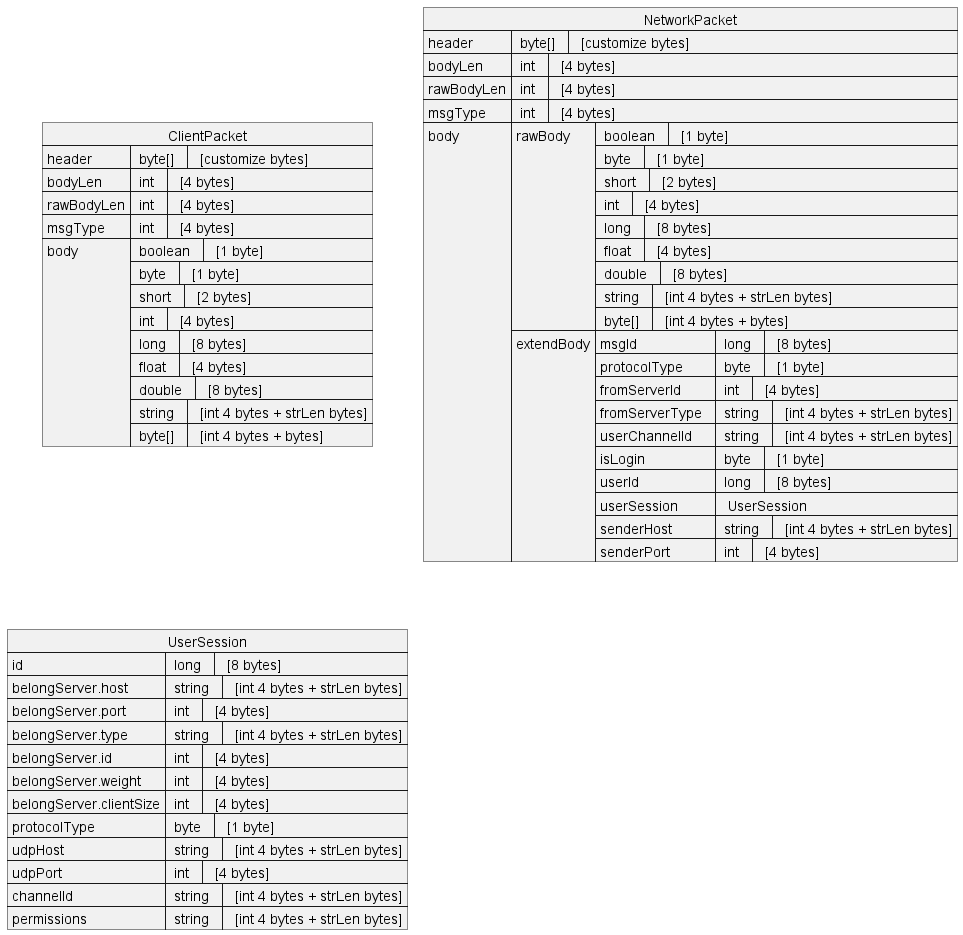
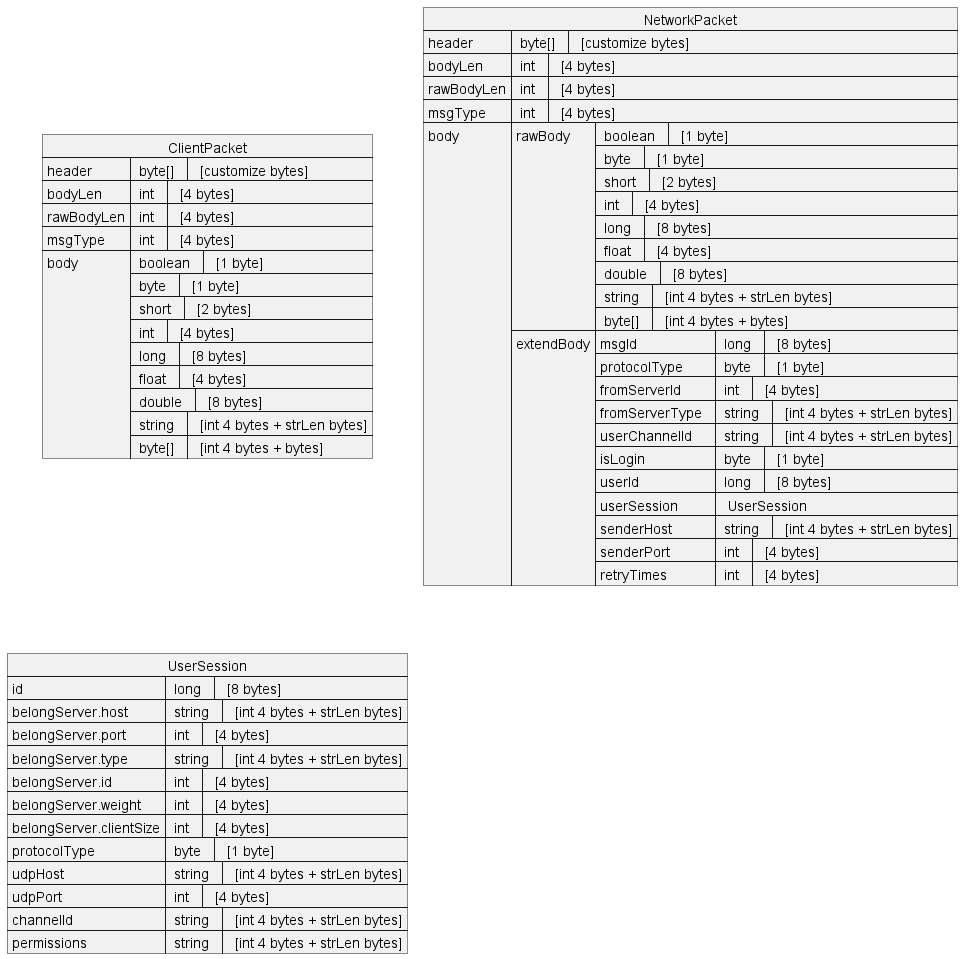
feat(server-framework): add retry mechanism for failed message dispatching
Introduce a retry mechanism in the server message dispatching logic to handle
failed message deliveries. This feature allows for retrying message dispatch up
to a configured number of times before considering it a failure.

The retry logic is implemented in the `JoinChatRoomAction` and utilizes the
`ExtendBody` entity to store and manage the retry counts. Additionally, the`NetworkPacket` and `Decoder` classes have been updated to support the removal
and replacement of the extend body, facilitating the retry process.

BREAKING CHANGE: The addition of the retry mechanism alters the message handling
流程, which may affect downstream systems that depend on the previous behavior.
Clients will need to be updated to handle the potential retries and the associated
changes in the message structure.

Changed region(s): [[0.4361, 0.0, 0.9969, 0.6203], [0.0, 0.6513, 0.4361, 0.9925], [0.0312, 0.1241, 0.3738, 0.4963]]

diff --git a/server-framework/src/main/java/com/hbsoo/server/message/entity/ExtendBody.java b/server-framework/src/main/java/com/hbsoo/server/message/entity/ExtendBody.java
@@ -20,6 +20,8 @@ public final class ExtendBody implements NetworkPacketEntity<ExtendBody> {
     //UDP
     private String senderHost;
     private int senderPort;
+    //重试次数
+    private int retryTimes;
 
     @Override
     public void serializable(NetworkPacket.Builder builder) {
@@ -40,6 +42,7 @@ public final class ExtendBody implements NetworkPacketEntity<ExtendBody> {
             builder.writeStr(this.senderHost)
                     .writeInt(this.senderPort);
         }
+        builder.writeInt(this.retryTimes);
         if (writeRawBody) {
             builder.writeRawBodyMode();
         }
@@ -71,6 +74,7 @@ public final class ExtendBody implements NetworkPacketEntity<ExtendBody> {
             this.senderHost = decoder.readStr();
             this.senderPort = decoder.readInt();
         }
+        this.retryTimes = decoder.readInt();
         if (isReadRawBody) {
             decoder.readRawBodyMode();
         }
@@ -161,6 +165,14 @@ public final class ExtendBody implements NetworkPacketEntity<ExtendBody> {
         this.senderPort = senderPort;
     }
 
+    public int getRetryTimes() {
+        return retryTimes;
+    }
+
+    public void setRetryTimes(int retryTimes) {
+        this.retryTimes = retryTimes;
+    }
+
     @Override
     public String toString() {
         return "ExtendBody{" +
@@ -174,6 +186,7 @@ public final class ExtendBody implements NetworkPacketEntity<ExtendBody> {
                 ", userSession=" + userSession +
                 ", senderHost='" + senderHost + '\'' +
                 ", senderPort=" + senderPort +
+                ", retryTimes=" + retryTimes +
                 '}';
     }
 }

diff --git a/server-framework/src/main/java/com/hbsoo/server/session/InsideClientSessionManager.java b/server-framework/src/main/java/com/hbsoo/server/session/InsideClientSessionManager.java
@@ -265,11 +265,11 @@ public final class InsideClientSessionManager {
     /**
      * 请求服务器，并等待服务器响应返回值；
      * @param msgBuilder 消息内容
-     * @param waitSeconds 等待相应结果时间秒数
+     * @param timeoutSeconds 等待相应结果时间秒数
      * @param forwardMsg2ServerFunction 消息发送函数
      * @return 服务器响应的内容或者null(等待返回值超时)
      */
-    public static NetworkPacket.Decoder requestServer(NetworkPacket.Builder msgBuilder, int waitSeconds, Consumer<NetworkPacket.Builder> forwardMsg2ServerFunction)
+    public static NetworkPacket.Decoder requestServer(NetworkPacket.Builder msgBuilder, int timeoutSeconds, Consumer<NetworkPacket.Builder> forwardMsg2ServerFunction)
             throws InterruptedException {
         NetworkPacket.Decoder decoder = msgBuilder.toDecoder();
         if (!decoder.hasExtendBody()) {
@@ -282,7 +282,7 @@ public final class InsideClientSessionManager {
             forwardMsg2ServerFunction.accept(msgBuilder);
             CountDownLatch latch = syncMessage.getCountDownLatch();
             //阻塞等待结果
-            boolean await = latch.await(waitSeconds, TimeUnit.SECONDS);
+            boolean await = latch.await(timeoutSeconds, TimeUnit.SECONDS);
             if (await) {
                 return syncMessage.getDecoder();
             }

diff --git a/room-server/src/main/java/com/hbsoo/room/action/inside/JoinChatRoomAction.java b/room-server/src/main/java/com/hbsoo/room/action/inside/JoinChatRoomAction.java
@@ -37,16 +37,15 @@ public class JoinChatRoomAction extends ServerMessageDispatcher {
         String username = decoder.readStr();
         final String channelId = extendBody.getUserChannelId();
         long userId = decoder.readInt();
-        //1.执行登录流程，同步到到网关服。
-        //2.判断聊天房间是否存在
-        //3.存在则进入，不存在则创建；进入聊天房间
-        //4.发送聊天小则走房间服务。
         logger.info("JoinChatRoomAction username:{}，channelId:{}，userId:{}", username, channelId, userId);
         UserSession userSession = outsideUserSessionManager.getUserSession(userId);
         //有可能网关还未同步用户信息过来
         if (userSession == null) {
-            //TODO 添加重试次数
-            delayThreadPoolScheduler.schedule(() -> redirectMessage(ctx, decoder.toBuilder()), 500L, TimeUnit.MILLISECONDS);
+            int retryTimes = extendBody.getRetryTimes();
+            if (retryTimes < 5) {
+                extendBody.setRetryTimes(retryTimes + 1);
+                delayThreadPoolScheduler.schedule(() -> redirectMessage(ctx, decoder.replaceExtendBody(extendBody)), 500L, TimeUnit.MILLISECONDS);
+            }
             return;
         }
         ChatRoom chatRoom = ChatRoomManager.getChatRoom("first-chatroom",k -> {

diff --git a/server-framework/src/main/java/com/hbsoo/server/message/server/ServerMessageDispatcher.java b/server-framework/src/main/java/com/hbsoo/server/message/server/ServerMessageDispatcher.java
@@ -270,13 +270,13 @@ public abstract class ServerMessageDispatcher implements ServerMessageHandler {
     /**
      * 请求服务器，并等待服务器响应返回值；
      * @param builder 消息内容
-     * @param waitSeconds 等待相应结果时间秒数
+     * @param timeoutSeconds 等待相应结果时间秒数
      * @param forwardMsg2ServerFunction 消息发送函数
      * @return 服务器响应的内容或者null(等待返回值超时)
      */
-    public NetworkPacket.Decoder request2Server(NetworkPacket.Builder builder, int waitSeconds, Consumer<NetworkPacket.Builder> forwardMsg2ServerFunction) {
+    public NetworkPacket.Decoder request2Server(NetworkPacket.Builder builder, int timeoutSeconds, Consumer<NetworkPacket.Builder> forwardMsg2ServerFunction) {
         try {
-            return InsideClientSessionManager.requestServer(builder, waitSeconds, forwardMsg2ServerFunction);
+            return InsideClientSessionManager.requestServer(builder, timeoutSeconds, forwardMsg2ServerFunction);
         } catch (InterruptedException e) {
             e.printStackTrace();
             return null;

diff --git a/server-framework/src/main/java/com/hbsoo/server/message/entity/NetworkPacket.java b/server-framework/src/main/java/com/hbsoo/server/message/entity/NetworkPacket.java
@@ -385,6 +385,15 @@ public final class NetworkPacket {
             byte[] bytes = buildPackage();
             return NetworkPacket.Decoder.withHeader(getHeader()).parsePacket(bytes);
         }
+
+        public Builder replaceExtendBody(ExtendBody extendBody) {
+            if (!expandBodyList.isEmpty()) {
+                int all = allBodyLength.get();
+                allBodyLength.set(all - expandBodyList.size());
+                expandBodyList.clear();
+            }
+            return this.writeObj(extendBody);
+        }
     }
 
     public static class Decoder {
@@ -492,6 +501,14 @@ public final class NetworkPacket {
                 }
             }
             return builder;
+        }
+
+        public Decoder replaceExtendBody(ExtendBody extendBody) {
+            if (Objects.nonNull(this.expandBody)) {
+                this.bodyLen = this.bodyLen - expandBody.length;
+                this.expandBody = null;
+            }
+            return this.toBuilder().writeObj(extendBody).toDecoder();
         }
 
         /**

diff --git a/server-framework/src/main/java/com/hbsoo/server/message/server/CommonDispatcher.java b/server-framework/src/main/java/com/hbsoo/server/message/server/CommonDispatcher.java
@@ -440,6 +440,7 @@ interface CommonDispatcher {
                 extendBody.setSenderHost(senderHost);
                 extendBody.setSenderPort(senderPort);
             }
+            extendBody.setRetryTimes(0);
             extendBody.serializable(builder);
         }
     }
